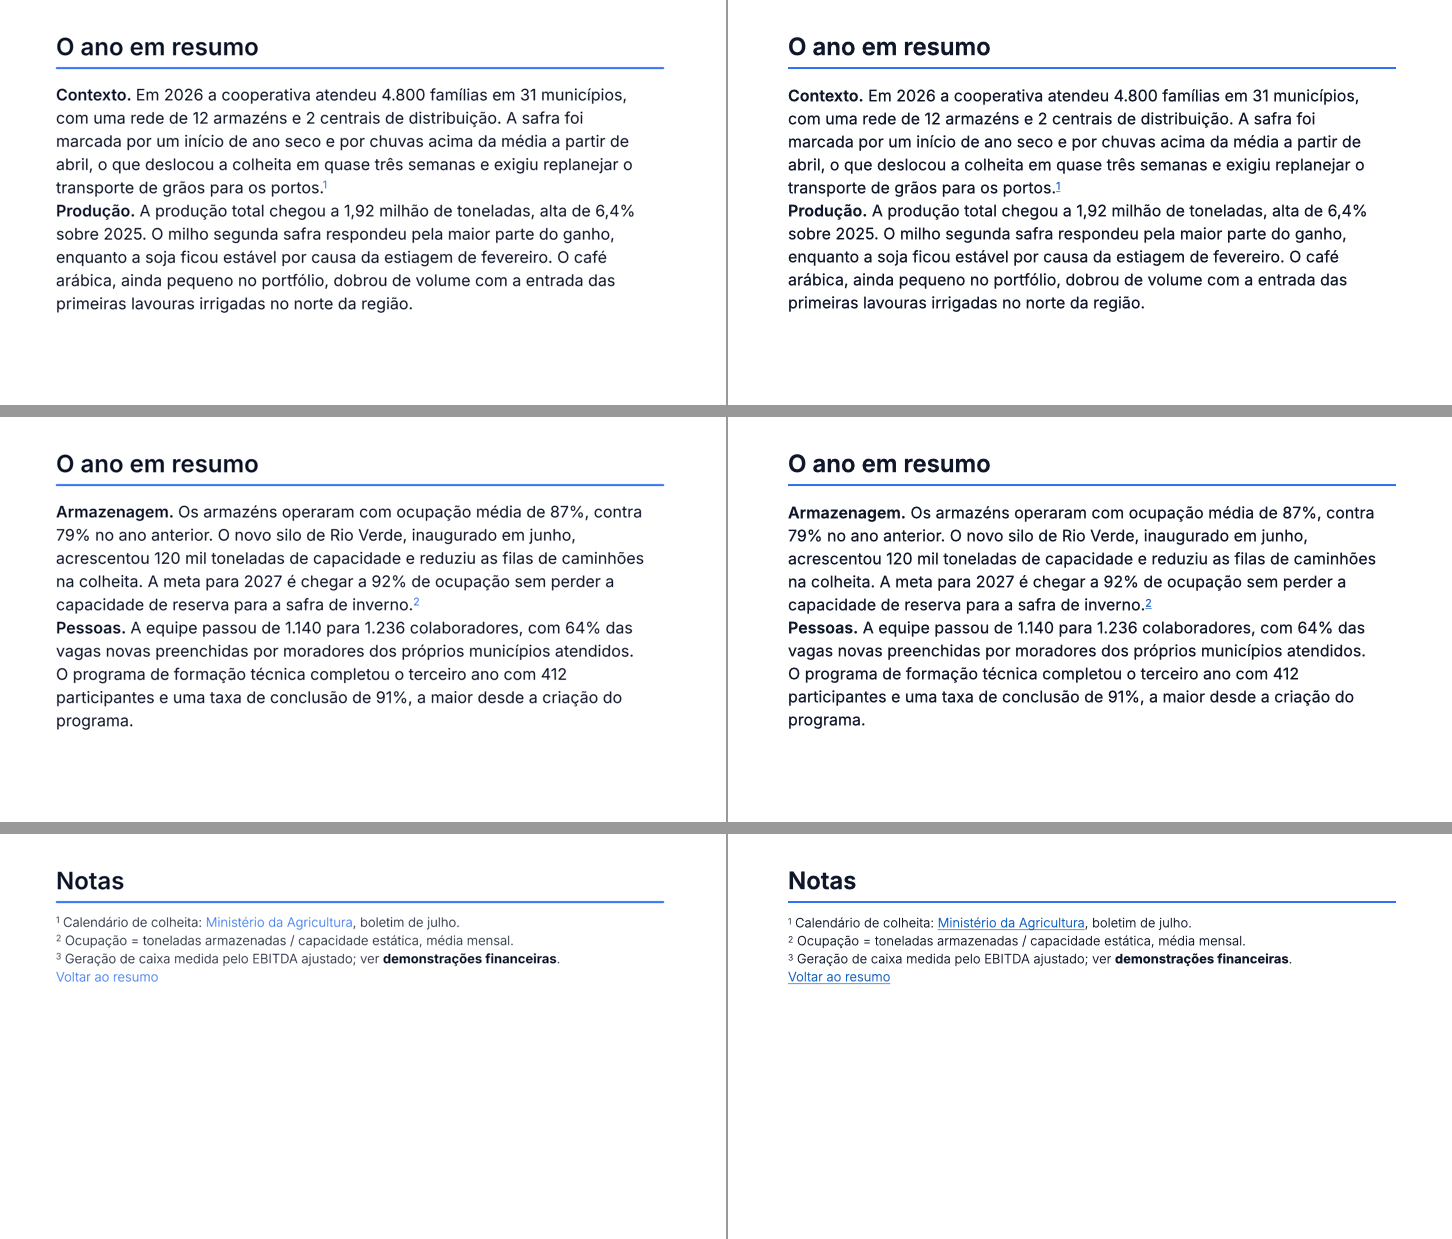
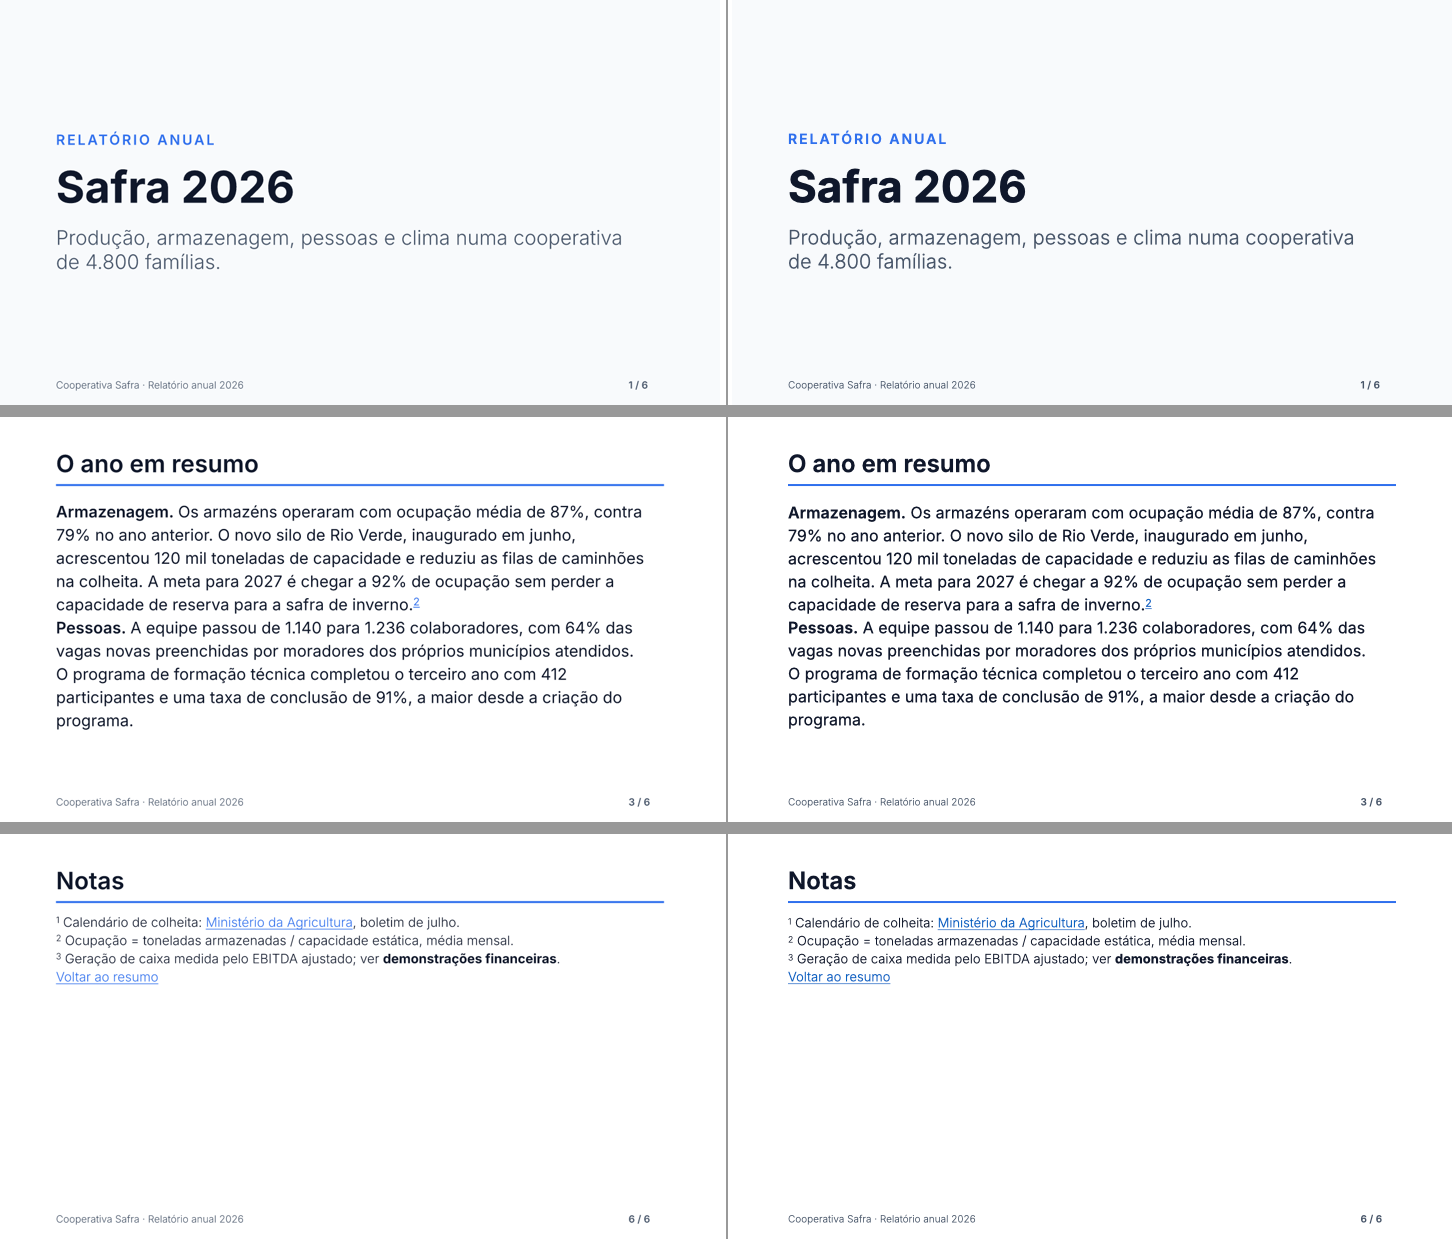
feat(m13-6): número de slide e rodapé — Deck footer em todo slide (Footer), SlideNumber com campo slidenum nativo, total do deck de saída, duas caixas em n / total (Keynote); relatório conferido no Keynote

diff --git a/src/resolve/resolve.ts b/src/resolve/resolve.ts
@@ -5,13 +5,17 @@ import type {
   Children,
   CssStyle,
   ResolvedConnector,
+  SlideNumberFormat,
+  SlideNumberProps,
+  TextProps,
   ResolvedDeck,
   ResolvedNode,
   ResolvedSlide,
   SlideElement,
   TextChildren,
 } from '../core/types.ts';
-import { primitiveName } from '../primitives/index.ts';
+import { Box, primitiveName } from '../primitives/index.ts';
+import { jsx } from '../jsx/jsx-runtime.ts';
 import { assertChartSize, assertValidChart, assertValidTable, normalizeRows } from './data.ts';
 import { ROOT_TEXT } from './draft.ts';
 import type { InheritedText } from './draft.ts';
@@ -149,6 +153,20 @@ const resolveIcon = (item: ExpandedPrimitive, path: string, n: Normalized, env: 
   return { kind: 'icon', path, props, css: n.css, viewBox, content };
 };
 
+const SLIDE_NUMBER_FORMATS: readonly SlideNumberFormat[] = ['n', 'n / total'];
+
+/** M13: Text de uma linha medido no pior caso; o número real entra depois da paginação (fit). */
+const resolveSlideNumber = (item: ExpandedPrimitive, path: string, n: Normalized): ResolvedNode => {
+  assertNoChildren(item, path);
+  const props = legacyPropsOf('slideNumber', n) as Omit<SlideNumberProps, 'children'> & Omit<TextProps, 'children'>;
+  const format = props.format ?? 'n';
+  if (!SLIDE_NUMBER_FORMATS.includes(format)) throw new ResolveError(`<SlideNumber>: format ${JSON.stringify(format)} inválido; use "n" ou "n / total"`, path);
+  const { format: _format, ...textProps } = props;
+  const sample = format === 'n' ? DEFAULTS.text.slideNumberSample.n : DEFAULTS.text.slideNumberSample.total;
+  const runs = [{ ...baseRunStyleOf(n), text: sample }];
+  return { kind: 'text', path, props: { ...textProps, nowrap: true }, css: n.css, content: sample, runs, slideNumber: { format } };
+};
+
 const resolveTable = (item: ExpandedPrimitive, path: string, n: Normalized): ResolvedNode => {
   assertNoChildren(item, path);
   const props = legacyPropsOf('table', n);
@@ -207,7 +225,7 @@ const resolveNode = (item: ExpandedPrimitive, path: string, ctx: ResolveScope, p
     case 'icon':
       return resolveIcon(item, path, n, ctx.env);
     case 'slideNumber':
-      throw new ResolveError(`<${nameOf(item)}> ainda não está disponível`, path);
+      return resolveSlideNumber(item, path, n);
     case 'span':
       throw new ResolveError(SPAN_OUTSIDE_TEXT, path);
     case 'slide':
@@ -236,14 +254,26 @@ const resolveChildren = (
 
 const ROOT_PARENT: ParentInfo = { text: ROOT_TEXT, css: undefined };
 
+/**
+ * M13: o `footer` do Deck entra em cada slide como último filho, num invólucro absoluto do tamanho do
+ * slide com o conteúdo empurrado para a base. O componente tem nome próprio, então o path é
+ * `Slide > Footer > …` e os índices dos irmãos do autor não mudam.
+ */
+function Footer({ children }: { readonly children?: Children }): SlideElement {
+  return jsx(Box, { position: 'absolute', inset: 0, display: 'flex', flexDirection: 'column', justifyContent: 'flex-end', children });
+}
+
+const withFooter = (children: Children, footer: Children | undefined): Children =>
+  footer === undefined || footer === null || footer === false ? children : [children, jsx(Footer, { children: footer })];
+
 /** O slide é o primeiro segmento do path e não leva índice (o índice vai em Diagnostic.slide). */
-const resolveSlide = (item: ExpandedPrimitive, index: number, ctx: ResolveScope): ResolvedSlide => {
+const resolveSlide = (item: ExpandedPrimitive, index: number, ctx: ResolveScope, footer?: Children): ResolvedSlide => {
   if (item.kind !== 'slide') {
     throw new ResolveError(`Filhos de <Deck> têm que ser <Slide>; encontrado <${nameOf(item)}>`, item.segment);
   }
   const path = item.segment;
   const n = normalizedOf(item, path, ctx, ROOT_PARENT);
-  const { nodes, connectors } = resolveChildren(item.element.props.children, path, ctx, parentOf(n));
+  const { nodes, connectors } = resolveChildren(withFooter(item.element.props.children, footer), path, ctx, parentOf(n));
   const ids = slideIdsOf(nodes);
   const slide: ResolvedSlide = {
     kind: 'slide',
@@ -272,8 +302,9 @@ const expandRoot = (root: SlideElement): ExpandedPrimitive => {
 export const resolveDeck = (root: SlideElement, responsive: ResponsiveContext, env: ResolveEnv = createResolveEnv()): ResolvedDeck => {
   const ctx: ResolveScope = { ...responsive, env };
   const deck = expandRoot(root);
+  const footer = deck.element.props.footer as Children | undefined;
   const slides = onlyPrimitives(expandChild(deck.element.props.children), '').map((item, index) =>
-    resolveSlide(item, index, ctx),
+    resolveSlide(item, index, ctx, footer),
   );
   return { slides };
 };

diff --git a/tests/fit/slide-number.test.tsx b/tests/fit/slide-number.test.tsx
@@ -1,0 +1,78 @@
+import { describe, expect, it } from 'vitest';
+import { applySlideNumberFields } from '../../src/emit/slide-number.ts';
+import { Box, Deck, Slide, SlideNumber, Text } from '../../src/primitives/index.ts';
+import { resolveDeck } from '../../src/resolve/index.ts';
+import { createContext, resolveSize } from '../../src/sizes.ts';
+import type { PositionedNode, PositionedText, SlideElement } from '../../src/core/types.ts';
+import { build, shapesOf } from '../helpers/build.tsx';
+
+const textsOf = (nodes: readonly PositionedNode[]): readonly PositionedText[] =>
+  nodes.flatMap((node) => (node.kind === 'text' ? [node] : node.kind === 'box' ? textsOf(node.children) : []));
+
+const FOOTER = (
+  <Box display="flex" justifyContent="space-between" padding="0 20 10">
+    <Text fontSize={10}>Rodapé</Text>
+    <SlideNumber format="n / total" fontSize={10} />
+  </Box>
+);
+
+const items = Array.from({ length: 14 }, (_, index) => <Text fontSize={28}>{`Item ${index}`}</Text>);
+const deck = (
+  <Deck footer={FOOTER}>
+    <Slide><Text>Capa</Text></Slide>
+    <Slide padding={20}><Box paginate gap={4}>{items}</Box></Slide>
+    <Slide><Text>Fim</Text></Slide>
+  </Deck>
+);
+
+describe('M13-6 — rodapé e número de slide', () => {
+  it('rodapé em todo slide (inclusive partes), com path Slide > Footer > … e números do deck de saída', async () => {
+    const { positioned, diagnostics } = await build(deck);
+    expect(diagnostics.filter((d) => d.severity === 'error')).toEqual([]);
+    expect(positioned.slides).toHaveLength(4);
+    positioned.slides.forEach((slide, index) => {
+      const number = textsOf(slide.children).find((text) => text.slideNumber !== undefined)!;
+      expect(number.path).toBe('Slide > Footer > Box > SlideNumber');
+      expect(number.content).toBe(`${index + 1} / 4`);
+      expect(number.slideNumber).toMatchObject({ index: index + 1, total: 4 });
+    });
+  });
+
+  it('o rodapé não muda os índices dos irmãos do autor', () => {
+    const resolved = resolveDeck(
+      (<Deck footer={<Text>f</Text>}><Slide><Text>a</Text><Text>b</Text></Slide></Deck>) as SlideElement,
+      createContext(resolveSize('16x9')),
+    );
+    expect(resolved.slides[0]!.children.map((node) => node.path)).toEqual(['Slide > Text[0]', 'Slide > Text[1]', 'Slide > Footer']);
+  });
+
+  it('XML: o número é campo slidenum numa caixa; " / total" em outra encostada', async () => {
+    const { xml } = await build(deck);
+    const third = xml[2]!;
+    expect(third).toMatch(/<a:fld id="\{[0-9A-F-]+\}" type="slidenum"><a:rPr[^>]*sz="1000"/);
+    expect(third).toMatch(/<a:fld [^>]*><a:rPr[\s\S]*?<a:t>3<\/a:t><\/a:fld>/);
+    const fieldBox = shapesOf(third).findIndex((shape) => shape.includes('type="slidenum"'));
+    expect(shapesOf(third)[fieldBox]).not.toContain(' / 4');
+    expect(shapesOf(third)[fieldBox + 1]).toContain('<a:t> / 4</a:t>');
+    expect(third).toContain('Item');
+  });
+
+  it('format "n": só o campo, numa caixa', async () => {
+    const { xml } = await build(<Deck><Slide><SlideNumber /></Slide><Slide><SlideNumber /></Slide></Deck>);
+    expect(xml[1]).toMatch(/type="slidenum"><a:rPr[\s\S]*?<a:t>2<\/a:t><\/a:fld>/);
+  });
+
+  it('o pós-processamento só troca o run marcado (não engole runs anteriores)', () => {
+    const MARK = 'pptsx-slidenum';
+    const xml = `<a:p><a:r><a:rPr sz="1"><a:solidFill/></a:rPr><a:t>Título</a:t></a:r><a:r><a:rPr sz="2"/><a:t>${MARK}7</a:t></a:r></a:p>`;
+    expect(applySlideNumberFields(xml)).toBe(
+      '<a:p><a:r><a:rPr sz="1"><a:solidFill/></a:rPr><a:t>Título</a:t></a:r><a:fld id="{B6F15528-21DE-4FAA-801E-634DDDAF4B2B}" type="slidenum"><a:rPr sz="2"/><a:t>7</a:t></a:fld></a:p>',
+    );
+  });
+
+  it('format inválido → ResolveError', () => {
+    expect(() =>
+      resolveDeck((<Deck><Slide><SlideNumber format={'x' as never} /></Slide></Deck>) as SlideElement, createContext(resolveSize('16x9'))),
+    ).toThrow(/format "x"/);
+  });
+});

diff --git a/src/emit/slide-number.ts b/src/emit/slide-number.ts
@@ -1,0 +1,61 @@
+import type { PositionedText, Rect } from '../core/types.ts';
+import type * as Pptx from './pptx.ts';
+
+/**
+ * M13-6: o número do SlideNumber sai como campo nativo `slidenum` (o PowerPoint atualiza ao
+ * reordenar). O pptxgenjs não tem campo em run: o emissor marca o run do número e o
+ * pós-processamento (sanitize) troca o `<a:r>` marcado por `<a:fld type="slidenum">`.
+ */
+
+/** Marcador invisível no texto do run (palavras-separadoras U+2060 em volta). */
+const MARK = 'pptsx-slidenum';
+
+/** GUID que o PowerPoint usa no campo de número de slide. */
+const FIELD_ID = '{B6F15528-21DE-4FAA-801E-634DDDAF4B2B}';
+
+export const withSlideNumberField = (runs: Pptx.TextProps[], node: PositionedText): Pptx.TextProps[] => {
+  const index = node.slideNumber?.index;
+  const [first, ...rest] = runs;
+  if (index === undefined || first === undefined || typeof first.text !== 'string') return runs;
+  const number = String(index);
+  if (!first.text.startsWith(number)) return runs;
+  const after = first.text.slice(number.length);
+  const field: Pptx.TextProps = { ...first, text: `${MARK}${number}` };
+  return after === '' ? [field, ...rest] : [field, { ...first, text: after }, ...rest];
+};
+
+// O corpo do <a:rPr> não pode conter </a:rPr>: senão o match começaria num run anterior e
+// engoliria o texto até o run marcado.
+const MARKED_RUN = new RegExp(`<a:r>(<a:rPr\\b[^>]*?(?:/>|>(?:(?!</a:rPr>)[\\s\\S])*</a:rPr>))<a:t>${MARK}(\\d+)</a:t></a:r>`, 'g');
+
+/** Troca cada run marcado pelo campo; o resto do XML fica intacto. */
+export const applySlideNumberFields = (xml: string): string =>
+  xml.includes(MARK) ? xml.replace(MARKED_RUN, (_match, rPr: string, number: string) => `<a:fld id="${FIELD_ID}" type="slidenum">${rPr}<a:t>${number}</a:t></a:fld>`) : xml;
+
+export interface TextBox {
+  readonly runs: Pptx.TextProps[];
+  readonly options: Pptx.TextPropsOptions;
+  readonly frame: Rect;
+}
+
+/**
+ * Caixas de texto de um Text. SlideNumber "n / total": o número (campo) numa caixa do tamanho dele e
+ * o resto noutra, encostada; as duas alinhadas à esquerda a partir de onde o rótulo começaria pelo
+ * `align` do Text. Qualquer outro Text: uma caixa só, como antes.
+ */
+export const slideNumberBoxesOf = (node: PositionedText, runs: Pptx.TextProps[], options: Pptx.TextPropsOptions): readonly TextBox[] => {
+  const number = node.slideNumber;
+  const withField = withSlideNumberField(runs, node);
+  const [field, ...rest] = withField;
+  if (number?.format !== 'n / total' || number.numberWidth === undefined || number.labelWidth === undefined || field === undefined || rest.length === 0) {
+    return [{ runs: withField, options, frame: node.frame }];
+  }
+  const { frame } = node;
+  const free = frame.width - number.labelWidth;
+  const start = frame.x + (options.align === 'right' ? free : options.align === 'center' ? free / 2 : 0);
+  const restX = start + number.numberWidth;
+  return [
+    { runs: [field], options: { ...options, align: 'left' }, frame: { ...frame, x: start, width: number.numberWidth } },
+    { runs: rest, options: { ...options, align: 'left' }, frame: { ...frame, x: restX, width: Math.max(frame.x + frame.width - restX, number.labelWidth - number.numberWidth) } },
+  ];
+};

diff --git a/src/fit/slide-number.ts b/src/fit/slide-number.ts
@@ -1,0 +1,33 @@
+import type { LayoutEnv, PositionedNode, PositionedSlide, PositionedText } from '../core/types.ts';
+import { DEFAULTS } from '../core/defaults.ts';
+import { contentRectOf, measureInputOf } from '../layout/index.ts';
+
+/**
+ * M13-6: cada SlideNumber recebe o número do deck de saída (depois da paginação) e o total.
+ * O frame continua o medido com o pior caso ("88 / 88"); só o texto é remedido nele. Puro.
+ */
+
+const labelOf = (format: 'n' | 'n / total', index: number, total: number): string => (format === 'n' ? String(index) : `${index} / ${total}`);
+
+const numberText = (node: PositionedText, index: number, total: number, env: LayoutEnv): PositionedText => {
+  if (node.slideNumber === undefined) return node;
+  const content = labelOf(node.slideNumber.format, index, total);
+  const [first] = node.runs;
+  const runs = first === undefined ? node.runs : [{ ...first, text: content }];
+  // Largura natural numa linha: o medidor devolve a caixa com a folga do safety (largura / safety).
+  const safety = env.textSafety ?? DEFAULTS.textSafety;
+  const natural = (text: string): number =>
+    env.measureText({ ...measureInputOf({ ...node, content: text, runs: runs.map((run) => ({ ...run, text })) }, Number.POSITIVE_INFINITY), nowrap: true }).width * safety;
+  const slideNumber = { ...node.slideNumber, index, total, numberWidth: natural(String(index)), labelWidth: natural(content) };
+  const numbered = { ...node, content, runs, slideNumber };
+  return { ...numbered, text: env.measureText(measureInputOf(numbered, contentRectOf(node.frame, node.box).width)) };
+};
+
+const numberNodes = (nodes: readonly PositionedNode[], index: number, total: number, env: LayoutEnv): readonly PositionedNode[] =>
+  nodes.map((node) => {
+    if (node.kind === 'text') return numberText(node, index, total, env);
+    return node.kind === 'box' ? { ...node, children: numberNodes(node.children, index, total, env) } : node;
+  });
+
+export const numberSlides = (slides: readonly PositionedSlide[], env: LayoutEnv): readonly PositionedSlide[] =>
+  slides.map((slide, index) => ({ ...slide, children: numberNodes(slide.children, index + 1, slides.length, env) }));

diff --git a/examples/texto/relatorio.tsx b/examples/texto/relatorio.tsx
@@ -1,9 +1,10 @@
-import { B, Deck, Slide, Span, Sup, Text, defineDeck } from 'pptsx';
+import { B, Box, Deck, Slide, SlideNumber, Span, Sup, Text, defineDeck } from 'pptsx';
 
 // M13: relatório de texto corrido. O corpo é um único <Text paginate>: o que não cabe continua
 // num clone do slide (mesmo título), cortando em fim de parágrafo quando dá e sem deixar menos
 // de 2 linhas de um parágrafo sozinhas. Notas de rodapé em sobrescrito apontam (href) para o
-// slide de notas; pesos 300/600 da Inter (examples/texto/pptsx.config.ts).
+// slide de notas; pesos 300/600 da Inter (examples/texto/pptsx.config.ts). O rodapé do Deck se
+// repete em todo slide (inclusive nas partes) com o número "n / total" como campo nativo.
 
 const INK = '#0F172A';
 const MUTED = '#475569';
@@ -29,8 +30,15 @@ const BODY = (
   </>
 );
 
+const FOOTER = (
+  <Box display="flex" justifyContent="space-between" alignItems="baseline" padding="0 56 14" fontFamily="Inter" fontSize={10} color={MUTED}>
+    <Text fontWeight={300}>Cooperativa Safra · Relatório anual 2026</Text>
+    <SlideNumber format="n / total" fontWeight={600} />
+  </Box>
+);
+
 export default defineDeck(() => (
-  <Deck>
+  <Deck footer={FOOTER}>
     <Slide padding="48 56" gap={12} fontFamily="Inter" color={INK} justifyContent="center" backgroundColor="#F8FAFC">
       <Text fontSize={14} fontWeight={600} color={ACCENT} letterSpacing={2} textTransform="uppercase">Relatório anual</Text>
       <Text fontSize={44} fontWeight={700}>Safra 2026</Text>

diff --git a/src/emit/emitters.ts b/src/emit/emitters.ts
@@ -16,6 +16,7 @@ import {
 import { debugOutlineOf, iconImageOf, imageOf, shapeOf, textOf, type ShapeSpec } from './options.ts';
 import type { PaintItem } from './paint.ts';
 import { tableOf } from './table.ts';
+import { slideNumberBoxesOf } from './slide-number.ts';
 import { pathOf } from './vector.ts';
 import { hyperlinkOf } from './link.ts';
 import { iconDrawnRectOf, iconPngOf, iconShapesOf } from './icon.ts';
@@ -42,7 +43,10 @@ const emitters: DispatchTable<PositionedNode, void, [slide: Pptx.Slide, ctx: Emi
   text: (node, slide, ctx, item) => {
     const content = contentOf(node);
     const { runs, options } = textOf(content, ctx.lineSpacing, ctx.lang, ctx.lineBreaks);
-    slide.addText(paintedRunsOf(runs, node.css, item.opacity), { ...options, ...placedOf(content.frame, item.rotations) });
+    // M13: "n / total" = o campo numa caixa e o resto noutra (o Keynote apaga texto junto do campo).
+    slideNumberBoxesOf(content, runs, options).forEach((box) =>
+      slide.addText(paintedRunsOf(box.runs, node.css, item.opacity), { ...box.options, ...placedOf(box.frame, item.rotations) }),
+    );
   },
   image: (node, slide, ctx, item) => {
     const content = contentOf(node);

diff --git a/src/fit/deck.ts b/src/fit/deck.ts
@@ -1,6 +1,7 @@
 import type { Diagnostic, LayoutEnv, PositionedDeck, PositionedSlide, ResolvedDeck, ResolvedNode, ResolvedSlide, SlideSize } from '../core/types.ts';
 import { routeConnectors } from './connectors.ts';
 import { linkDeck } from './links.ts';
+import { numberSlides } from './slide-number.ts';
 import { withSourceSlide } from './diagnostics.ts';
 import type { FitResult } from './fit.ts';
 import { paginateSlide } from './paginate.ts';
@@ -63,5 +64,7 @@ export const fitDeck = ({ deck, size, env }: FitDeckInput): FitDeckResult => {
   );
   // M13: links slide:N do autor → slide de saída (a paginação já aconteceu).
   const linked = linkDeck(fitted.slides, deck.slides.length, size.name);
-  return { positioned: { size, slides: linked.slides }, diagnostics: [...fitted.diagnostics, ...linked.diagnostics] };
+  // M13: números de slide do deck de saída (as partes paginadas contam).
+  const numbered = numberSlides(linked.slides, env);
+  return { positioned: { size, slides: numbered }, diagnostics: [...fitted.diagnostics, ...linked.diagnostics] };
 };

diff --git a/src/core/types.ts b/src/core/types.ts
@@ -787,7 +787,18 @@ export interface ResolvedText extends ResolvedBase<'text', Omit<TextProps, 'chil
    * M13: este Text é um SlideNumber. `content` é o pior caso até o fim do fit; depois da paginação
    * vira o número real (`slideIndex`/`slideTotal`), e o emissor grava o número como campo `slidenum`.
    */
-  readonly slideNumber?: { readonly format: SlideNumberFormat; readonly index?: number; readonly total?: number };
+  readonly slideNumber?: {
+    readonly format: SlideNumberFormat;
+    readonly index?: number;
+    readonly total?: number;
+    /**
+     * Larguras naturais (pt) do número e do rótulo inteiro, medidas no fit. O Keynote apaga todo
+     * texto que divide o parágrafo com o campo `slidenum`, então "n / total" sai em duas caixas
+     * (o campo e o " / total" logo depois dele) e o emissor precisa saber onde o número termina.
+     */
+    readonly numberWidth?: Pt;
+    readonly labelWidth?: Pt;
+  };
 }
 
 export type ResolvedImage = ResolvedBase<'image', ImageProps>;

diff --git a/src/emit/sanitize.ts b/src/emit/sanitize.ts
@@ -1,5 +1,6 @@
 import JSZip from 'jszip';
 import { applyLineMarkers } from './line-style.ts';
+import { applySlideNumberFields } from './slide-number.ts';
 import { renumberCharts } from './renumber.ts';
 
 const SLIDE_XML = /^ppt\/slides\/slide\d+\.xml$/;
@@ -54,7 +55,7 @@ type XmlFix = (xml: string) => string;
 
 /** Parte do pacote → correção a aplicar. */
 const fixOf = (name: string): XmlFix | undefined => {
-  if (SLIDE_XML.test(name)) return (xml) => applyLineMarkers(keepFirstParagraphProps(xml));
+  if (SLIDE_XML.test(name)) return (xml) => applySlideNumberFields(applyLineMarkers(keepFirstParagraphProps(xml)));
   if (name === PRESENTATION_XML) return reorderPresentationLists;
   return undefined;
 };

diff --git a/src/fit/scope.ts b/src/fit/scope.ts
@@ -6,7 +6,7 @@ import { primitiveName } from '../primitives/index.ts';
 const SEPARATOR = ' > ';
 const SIBLING_INDEX = /\[\d+\]$/;
 
-const PRIMITIVE_KINDS: readonly PrimitiveKind[] = ['slide', 'box', 'text', 'image', 'shape', 'chart', 'table', 'path', 'icon', 'connector'];
+const PRIMITIVE_KINDS: readonly PrimitiveKind[] = ['slide', 'box', 'text', 'image', 'shape', 'chart', 'table', 'path', 'icon', 'connector', 'slideNumber'];
 const PRIMITIVE_SEGMENTS: ReadonlySet<string> = new Set(PRIMITIVE_KINDS.map(primitiveName));
 
 export const segmentsOf = (path: string): readonly string[] => path.split(SEPARATOR);

diff --git a/src/index.ts b/src/index.ts
@@ -1,6 +1,6 @@
 import type { DeckDefinition } from './core/types.ts';
 
-export { Deck, Slide, Box, Text, Image, Shape, Span, B, I, Sup, Sub, Chart, Table, Path, Icon, Connector } from './primitives/index.ts';
+export { Deck, Slide, Box, Text, Image, Shape, Span, B, I, Sup, Sub, Chart, Table, Path, Icon, Connector, SlideNumber } from './primitives/index.ts';
 export { Fragment } from './jsx/jsx-runtime.ts';
 export { resolveDeck, ResolveError } from './resolve/index.ts';
 export { render } from './render.ts';

diff --git a/src/primitives/index.ts b/src/primitives/index.ts
@@ -29,6 +29,7 @@ export const Table = definePrimitive('table');
 export const Path = definePrimitive('path');
 export const Icon = definePrimitive('icon');
 export const Connector = definePrimitive('connector');
+export const SlideNumber = definePrimitive('slideNumber');
 
 // Componentes (não primitivas): props do autor vêm depois, então vencem o padrão.
 export function B(props: AuthorPropsMap['span']): SlideElement {
